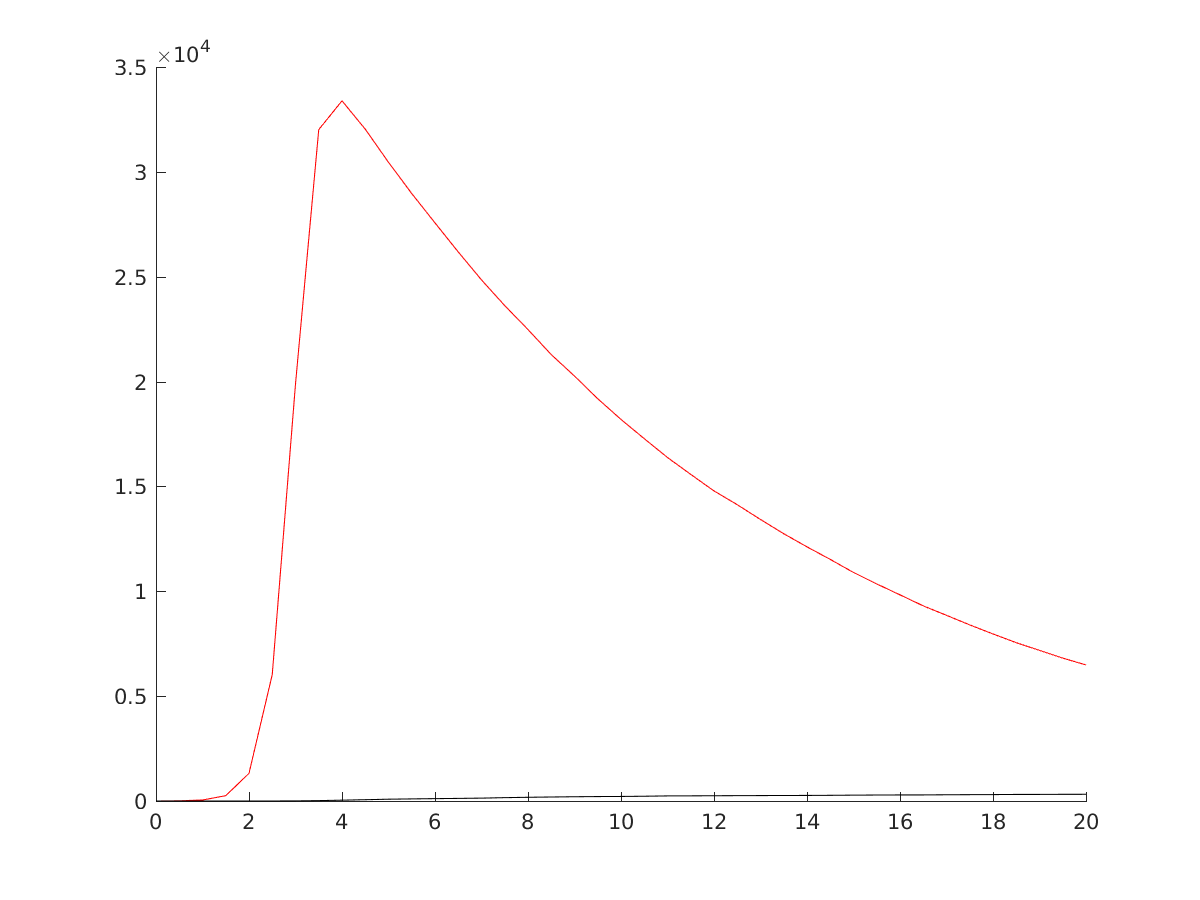
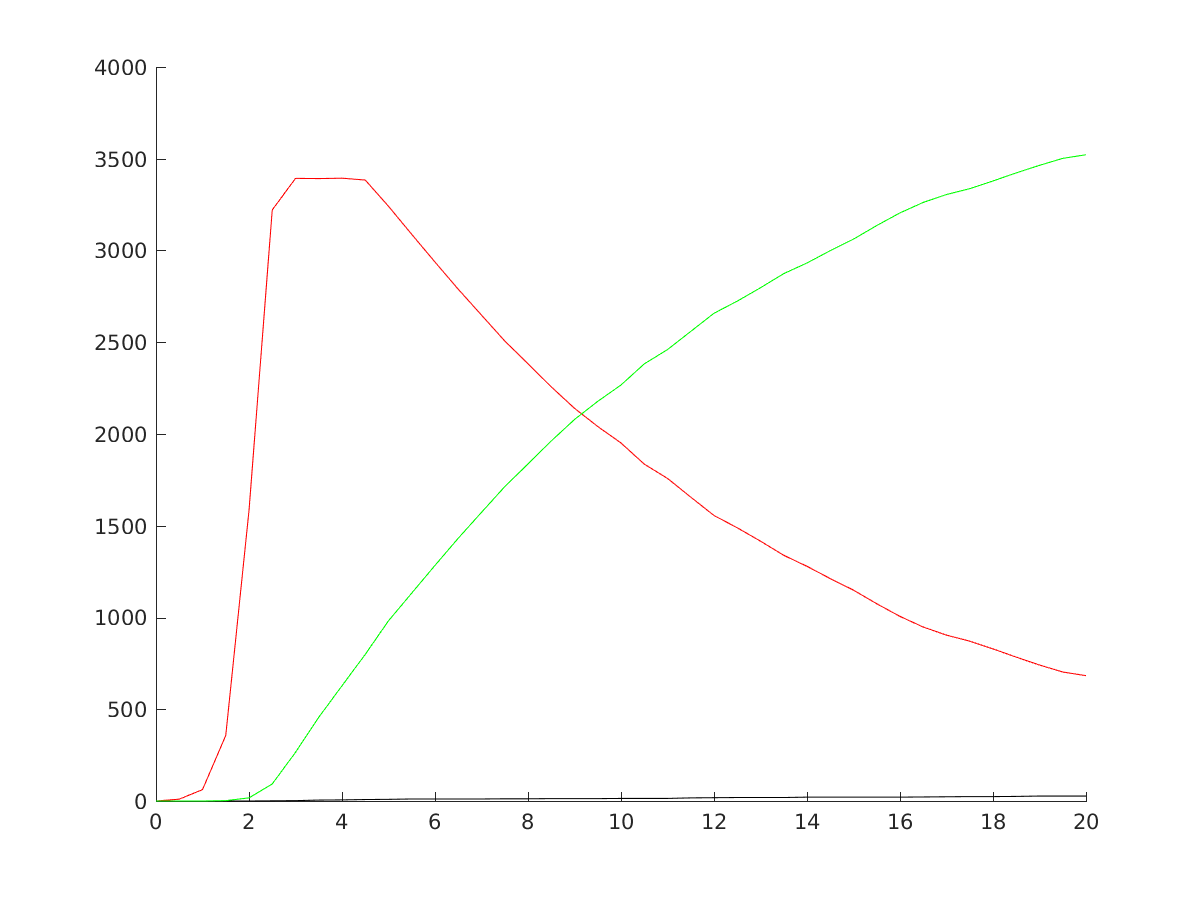
optional params

diff --git a/flu_sim.m b/flu_sim.m
@@ -1,7 +1,15 @@
-function [y_i, y_d, y_c] = flu_sim(T_y, p_y, f_y, c_y)
+function [y_i, y_d, y_c] = flu_sim(T_y, p_y, f_y, c_y, lookback, compound, time)
 
-compound = 2;
-time = 20; % 1 year
+if nargin < 5
+    lookback = 4;
+end
+if nargin < 6
+    compound = 2;
+end
+if nargin < 7
+    time = 20;
+end
+
 delta_time = 1/compound; % compound once a day
 tt = delta_time * (0:compound*time);
 
@@ -12,7 +20,11 @@ y_c = [0;0];
 
 for t=tt(3:end)
     infected = y_i(end);
-    new_infected = y_i(end)-y_i(end-1);
+    if t-lookback*compound <= 0
+        contagious = y_i(end);
+    else
+        contagious = y_i(end) - y_i(end-lookback*compound);
+    end
     dead = y_d(end);
     cured = y_c(end);
     pop = [ones(infected, 1); zeros(T_y-infected-dead, 1)];
@@ -23,7 +35,7 @@ for t=tt(3:end)
             cured = cured + 1;
         end
     end
-    for n=1:new_infected % INFECT MORE
+    for n=1:contagious % INFECT MORE
         pop = or(pop, rand(T_y-dead, 1) < (p_y/(T_y-dead)/compound));
     end
     for n=1:infected
@@ -36,6 +48,6 @@ for t=tt(3:end)
     y_i = [y_i; sum(pop)];
     y_d = [y_d; dead];
     y_c = [y_c; cured];
-
+    y_i(end)
 end
 

diff --git a/mainsim.m b/mainsim.m
@@ -1,7 +1,7 @@
-K = 60000;
-K_y = 36000;
-K_e = 3600;
-V = 4000;
+K = 6000;
+K_y = 3600;
+K_e = 360;
+V = 400;
 
 i_y = 1;
 i_e = 2;
@@ -21,7 +21,7 @@ T_y = K_y - V*alpha;
 T_e = K_e - V*(1-alpha);
 
 f = figure; hold on;
-[y_i, y_d, y_c] = flu_sim(T_y, p_y, f_y, c_y);
+[y_i, y_d, y_c] = flu_sim(T_y, p_y, f_y, c_y, 2);
 plot(tt, y_i, 'r');
 plot(tt, y_d, 'black');
 plot(tt, y_c, 'g');
